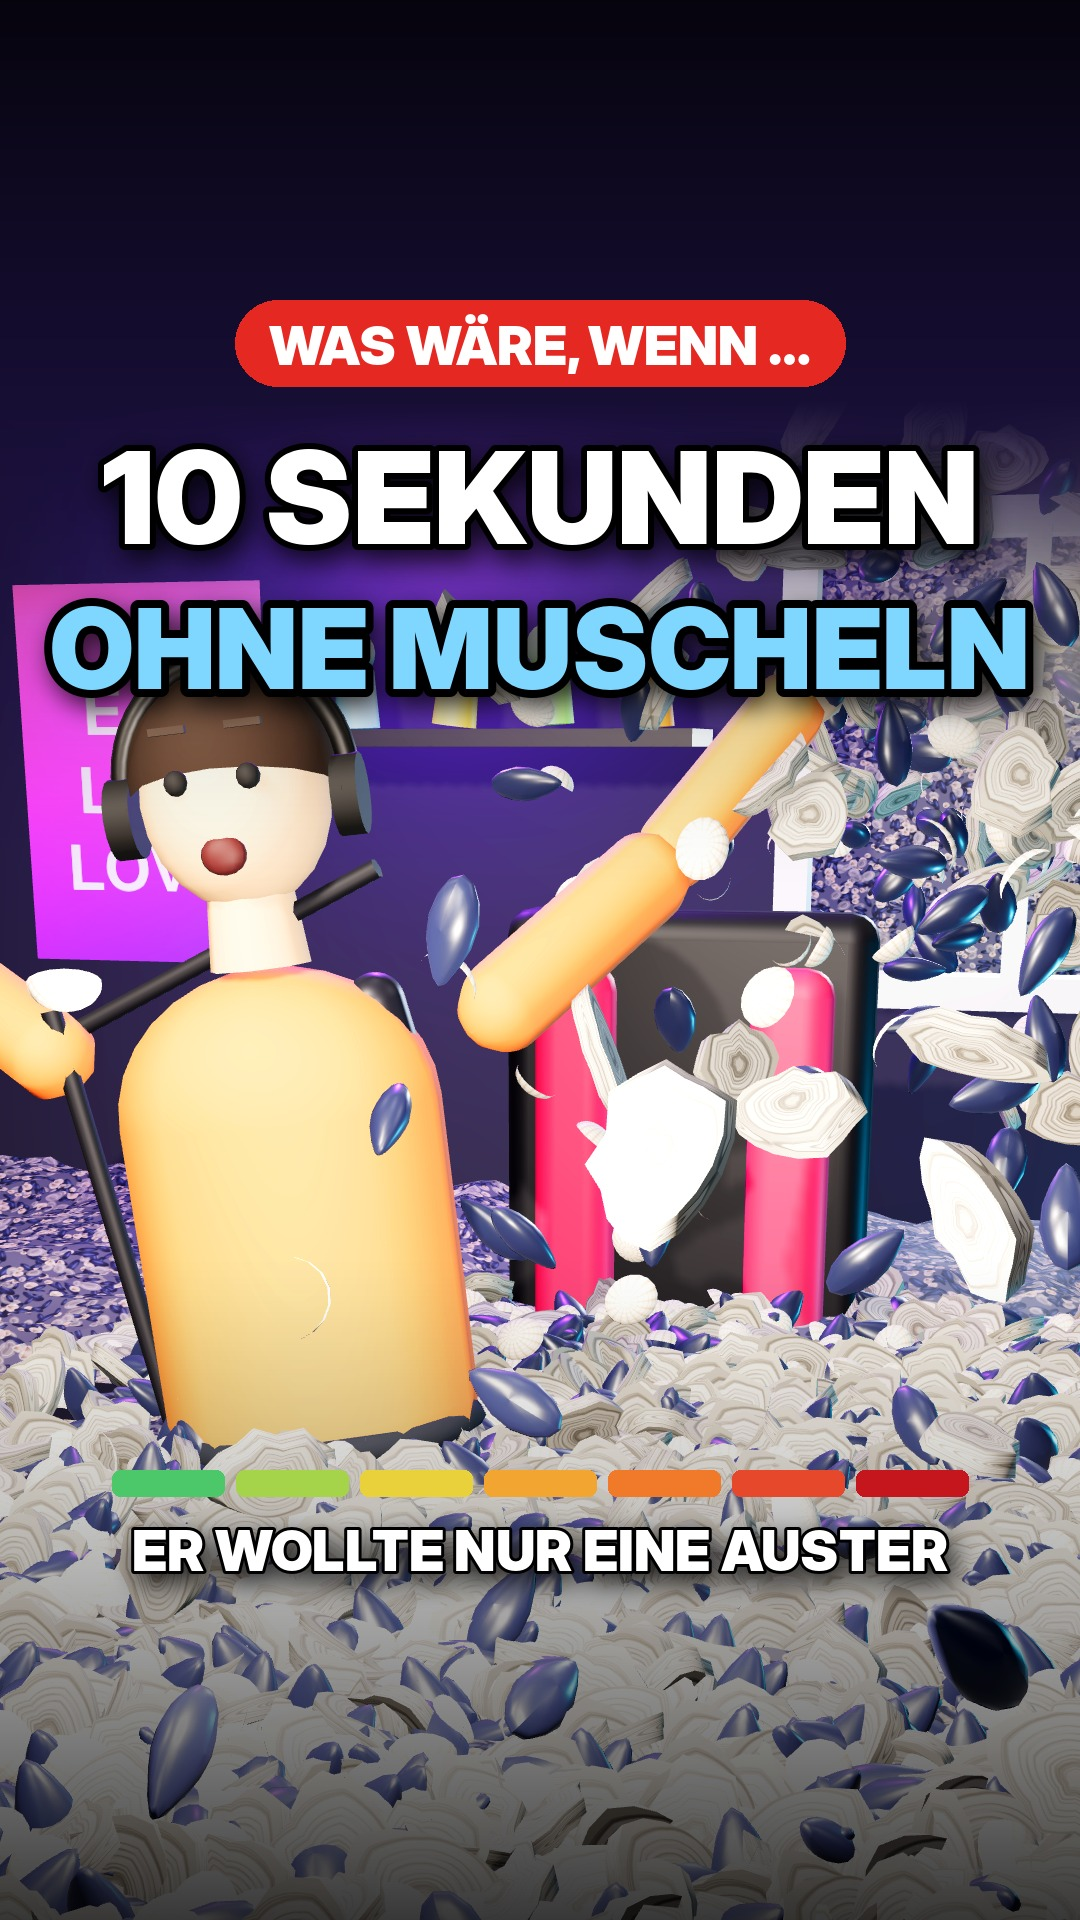
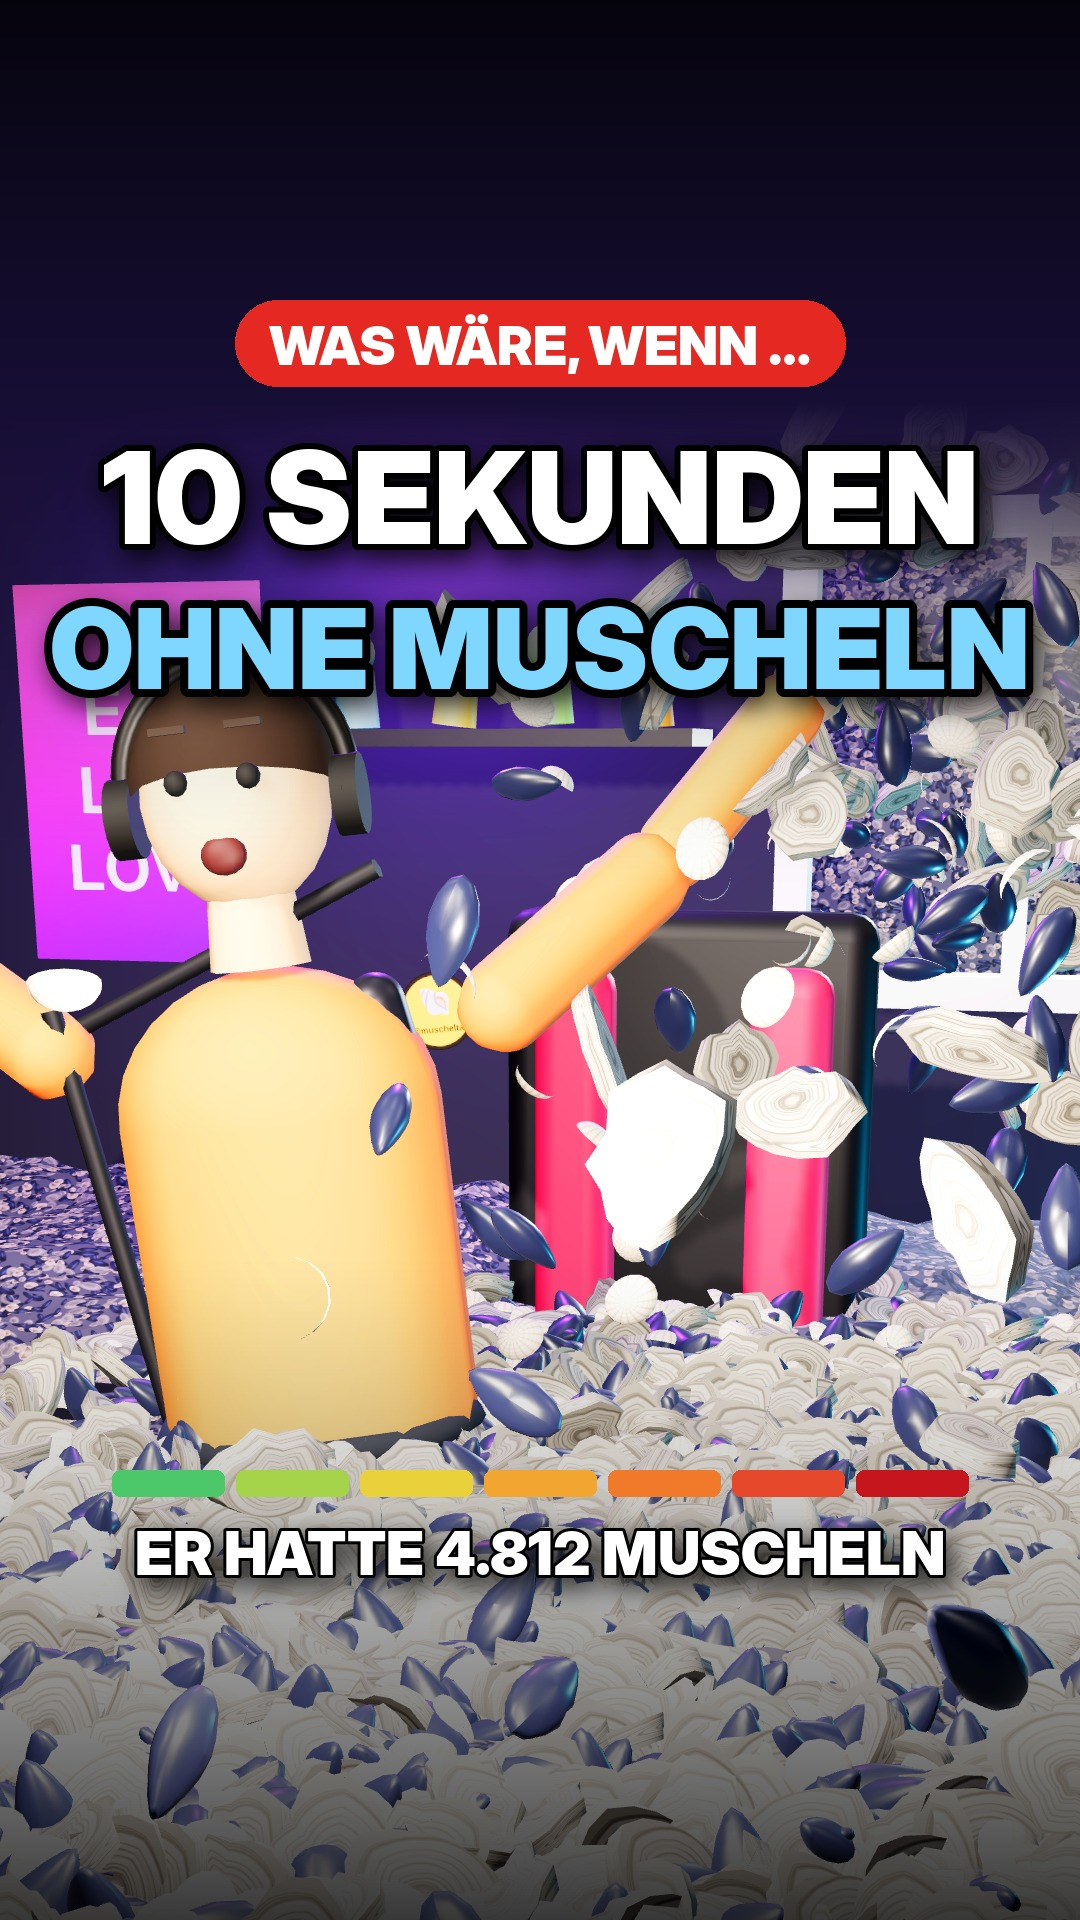
Folge 11 Muscheln: neue Stufe 1 (Mathearbeit), neues Finale, Ton, Beschreibung, Thumbnail
Claude-Session: https://claude.ai/code/session_01McNdgaYUbBinJQiiyVyJrz

Changed region(s): [[0.1222, 0.7812, 0.8861, 0.8438], [0.3667, 0.5, 0.4278, 0.5625]]

diff --git a/dieweltohne/folge11_muscheln/src/town.js b/dieweltohne/folge11_muscheln/src/town.js
@@ -141,7 +141,7 @@ export async function build(renderer) {
     const k = smooth(85.9, 87.8, st.T), n = Math.floor(Math.pow(k, 3) * 999999999999);
     g.textAlign = 'center'; g.textBaseline = 'middle'; g.font = '260px sans-serif'; g.fillText('🐚', SW / 2, 470);
     g.fillStyle = '#2a1b12'; g.beginPath(); g.roundRect(34, 716, SW - 60, 190, 60); g.fill(); g.fillStyle = '#fff8e7'; g.beginPath(); g.roundRect(30, 706, SW - 60, 190, 60); g.fill(); g.strokeStyle = '#2a1b12'; g.lineWidth = 8; g.stroke();
-    g.fillStyle = '#e8467c'; g.font = '900 ' + (n > 1e8 ? 62 : 90) + 'px sans-serif'; g.fillText(n.toLocaleString('de-DE'), SW / 2, 803); };
+    const txt = n >= 1e9 ? Math.floor(n / 1e9) + ' Mrd.' : n >= 1e6 ? Math.floor(n / 1e6) + ' Mio.' : n.toLocaleString('de-DE'); g.fillStyle = '#e8467c'; g.font = '900 120px sans-serif'; g.fillText(txt, SW / 2, 806); };
 
   const camera = new THREE.PerspectiveCamera(50, 1080 / 1920, 0.05, 3000); scene.add(camera);
   const o3 = new THREE.Object3D();
@@ -190,14 +190,15 @@ export async function build(renderer) {
       guy.position.set(top.x, top.y - 1.78 + 0.1 * hand + 0.4 * head, top.z + 0.3); guy.rotation.set(0, 0.25, 0); posePerson(guy, {}); brows(guy, 1, 0);
       u.armR.rotation.x = -2.9; u.armR.rotation.z = 0.15 * Math.sin(T * 9) * (1 - head); u.armR.userData.fore.rotation.x = -0.1; u.armL.rotation.x = -0.2; mouthOpen(guy, 0.2);
       // Er hält das Handy in die Kamera (der Kontostand explodiert) und jubelt
-      const look = smooth(86.4, 87.0, T), cheer = smooth(GULP - 0.2, GULP + 0.3, T);
-      u.armR.rotation.x = lerp(-2.9, -1.6, look) - 1.2 * cheer; u.armR.userData.fore.rotation.x = lerp(-0.1, -1.1, look) + 0.9 * cheer; u.armR.rotation.z = 0.15 * Math.sin(T * 9) * (1 - head) + 0.8 * cheer;
-      u.head.rotation.x = 0.2 * look * (1 - cheer) - 0.25 * cheer; mouthOpen(guy, T > 87.2 ? 0.55 + 0.4 * cheer + 0.1 * Math.sin(T * 20) * cheer : 0.25); brows(guy, 1, 0);
-      if (cheer > 0) { u.armL.rotation.x = -0.4; u.armL.rotation.z = -2.3 * cheer; u.armL.userData.fore.rotation.x = -0.4; }
-      guy.position.y += 0.06 * cheer * Math.abs(Math.sin(T * 9));
-      guy.updateMatrixWorld(true); const hr = u.armR.userData.fore.localToWorld(V3(0, -0.33, 0.03));
-      ph.position.copy(hr); ph.scale.setScalar(1.6); ph.rotation.set(0.1, 0.35 - 0.1 * look, 0);
-      if (cheer > 0) ph.rotation.set(0, 0.25, 0.3 * Math.sin(T * 9));
+      const look = smooth(86.2, 86.9, T), cheer = smooth(GULP - 0.2, GULP + 0.3, T);
+      u.armR.rotation.x = lerp(-2.9, -1.45, look); u.armR.userData.fore.rotation.x = lerp(-0.1, -0.9, look); u.armR.rotation.z = 0.15 * Math.sin(T * 9) * (1 - head) + 0.35 * look;
+      u.head.rotation.x = -0.15 * cheer; mouthOpen(guy, T > 86.9 ? 0.55 + 0.4 * cheer + 0.1 * Math.sin(T * 20) * cheer : 0.25); brows(guy, 1, 0);
+      if (cheer > 0) { u.armL.rotation.x = -0.4; u.armL.rotation.z = -2.4 * cheer + 0.2 * Math.sin(T * 12) * cheer; u.armL.userData.fore.rotation.x = -0.4; }
+      guy.position.y += 0.05 * cheer * Math.abs(Math.sin(T * 9));
+      guy.updateMatrixWorld(true); const hr = u.armR.userData.fore.localToWorld(V3(0, -0.33, 0.03)); const hd = u.head.localToWorld(V3(0.0, -0.05, 0.0));
+      // zum Zeigen hält er das Handy vor sich in die Kamera
+      const show = V3(hd.x + 0.22, hd.y - 0.05, hd.z + 0.42);
+      ph.scale.setScalar(lerp(1.6, 2.2, look)); ph.position.copy(hr).add(V3(0, 0.1 + 0.07 * look, 0.06)); ph.rotation.set(0.05, 0.3, 0.06 * Math.sin(T * 9) * cheer);
       updateScreen(ph, [], {t: T, T, custom: rich, noDrops: true});
     }
     // ---- Kamera ----

diff --git a/dieweltohne/folge11_muscheln/mix.py b/dieweltohne/folge11_muscheln/mix.py
@@ -82,7 +82,7 @@ def add(name, at, dur=None, db=0.0, off=0.0, fin=0.02, fout=0.05, speed=1.0, pan
 # ---------------- Zeitleiste (identisch zu src/timeline.js) ----------------
 VANISH, RETURN = 10.0, 48.0
 WK = [[10, 10], [17, 9.0], [24, 7.8], [31, 6.4], [39, 4.6], [48, 0]]
-LEMON, POP, FLASH, TRAY, SINK, HOLES, TILT, TOWER_HIT, WINDOW, BURIED, HAND_UP, HEAD_UP, GULP = 12.4, 17.5, 19.8, 24.9, 32.0, 40.0, 43.4, 45.2, 62.6, 75.6, 84.7, 85.7, 88.0
+SCREAM, TURN, TAKE, POP, FLASH, TRAY, SINK, HOLES, TILT, TOWER_HIT, WINDOW, BURIED, HAND_UP, HEAD_UP, GULP = 11.05, 12.3, 15.7, 17.5, 19.8, 24.9, 32.0, 40.0, 43.4, 45.2, 62.6, 75.6, 84.7, 85.7, 88.0
 POT_HITS = [25.75, 26.0, 26.25, 26.55, 26.8, 27.35]
 
 
@@ -119,17 +119,17 @@ while T_ < RETURN:
     T_ += 0.01
 for tt in ticks: tick(tt, -8 if tt < 7 or (VANISH < tt < 46) else -2)
 
-# ---------------- Livestream: Austern ----------------
-amb('fsd_party_music', 0, 10.0, -31)                                                       # leise Stream-Musik
-for tt in [1.0, 4.6, 8.2]: add('fsd_notify', tt, 0.45, db=-26, fout=0.15, pan=0.4)          # Chat-Ping
-add('fsd_slurp', 9.75, 1.5, db=-3, peak_win=0.4, fout=0.3)                                # er schlürft – Luft
+# ---------------- Stufe 1: Mathearbeit (Totenstille – nur Uhr und leise Spieltöne) ----------------
+for tt in [4.6, 5.9, 7.1, 8.2, 9.2]: add('fsd_coins', tt, 0.35, db=-27, fout=0.15, pan=0.2)      # +1 Muschel (leise, er will ja nicht auffallen)
 add('fsd_chime', VANISH - 0.05, 1.3, db=-15, fout=0.6)                                     # Verschwinden
-add('fsd_scratch', VANISH, 1.0, db=-5, fout=0.3)                                           # Plattenkratzer: Musik bricht ab
-add('fsd_laugh', 11.2, 2.0, db=-15, fin=0.1, fout=0.6)                                     # Lacher
-add('fsd_squeak', LEMON - 0.02, 0.5, db=-9, fout=0.1)                                       # Zitrone quietscht
-add('fsd_scream_girl', LEMON + 0.15, 1.4, db=-11, speed=0.72, fout=0.4)                    # Aua, das Auge
-add('fsd_laugh', 13.6, 3.2, db=-12, off=1.5, fin=0.2, fout=1.0)
-for tt in [14.4, 15.4, 16.2]: add('fsd_notify', tt, 0.4, db=-28, fout=0.1, pan=0.4)
+add('fsd_notify', VANISH + 0.35, 0.9, db=-14, speed=0.55, fout=0.3)                        # Konto auf 0 (tiefer, trauriger Ton)
+add('fsd_chair_scrape', SCREAM - 0.05, 0.7, db=-10, peak_win=0.4, fout=0.25)               # Stuhl kratzt beim Aufspringen
+add('fsd_scream_man', SCREAM, 1.3, db=-2, peak_win=1.0, fin=0.02, fout=0.35)               # „NEEEEIN!“
+add('fsd_crowd_gasp', TURN + 0.05, 1.8, db=-11, fout=0.6)                                  # alle drehen sich um
+add('fsd_giggle', TURN + 0.6, 1.4, db=-19, fout=0.5, pan=-0.3)
+add('fsd_steps_slow', 13.2, 1.7, db=-11, fin=0.05, fout=0.3)                              # Lehrerin kommt
+add('fsd_teens_laugh', TAKE + 0.2, 1.9, db=-13, fin=0.1, fout=0.6)                         # Klasse lacht
+add('fsd_sigh', TAKE + 0.4, 1.3, db=-9, fout=0.4)
 add('fsd_whoosh_fast', 16.75, 0.6, db=-12, fout=0.2)
 
 # ---------------- Stufe 2: Abiball-Foto ----------------
@@ -201,7 +201,7 @@ add('fsd_crowd_gasp', 52.2, 2.0, db=-14, fout=0.6)
 add('fsd_stone_clatter', 54.0, 3.6, db=-15, off=4.0, fin=0.3, fout=0.8)
 add('fsd_whoosh_fast', 57.7, 0.5, db=-14, fout=0.2)
 
-# ---------------- Stufe 7: Zurück im Stream ----------------
+# ---------------- Stufe 7: Abends im Stream ----------------
 add('fsd_sigh', 58.6, 2.0, db=-7, fout=0.6)
 for tt in [58.6, 59.6, 60.6, 61.4, 62.0]: add('fsd_notify', tt, 0.4, db=-27, fout=0.1, pan=0.4)
 add('fsd_sub_rumble', 60.2, 2.6, db=-9, off=1.0, fin=2.0, fout=0.1)
@@ -228,12 +228,13 @@ add('fsd_sub_rumble', 78.0, 6.0, db=-15, off=1.0, fin=0.4, fout=1.0)
 add('fsd_helicopter', 78.5, 5.5, db=-22, fin=1.0, fout=1.0, pan=-0.4)
 add('fsd_seagulls', 80.0, 3.0, db=-21, fout=0.8, pan=0.4)
 
-# ---------------- Finale: Auster ----------------
+# ---------------- Finale: Handy hoch, Kontostand explodiert ----------------
 amb('fsd_wind', 84.0, 90.0, -17)
 add('fsd_plastic_clatter', HAND_UP - 0.05, 0.9, db=-11, fout=0.4)                          # Hand bricht durch
 add('fsd_plastic_clatter', HEAD_UP - 0.05, 1.0, db=-9, off=1.5, fout=0.4)                 # Kopf taucht auf
 add('fsd_gasp', HEAD_UP + 0.25, 1.4, db=-7, fout=0.4)                                      # tief Luft holen
-add('fsd_slurp', 87.65, 1.4, db=-1, peak_win=0.4, fout=0.4)                                # endlich: Auster
+for k, tt in enumerate([86.3, 86.6, 86.9, 87.2, 87.5]): add('fsd_coins', tt, 0.5, db=-14 + k, fout=0.2, pan=0.3)   # Kontostand rattert hoch
+add('fsd_cheer_big', GULP - 0.15, 1.8, db=-7, fin=0.05, fout=0.7)                          # er jubelt
 add('fsd_applause', 88.35, 1.55, db=-14, fin=0.2, fout=0.8)
 # ---------------- Ausgabe ----------------
 peak = np.abs(mix).max()

diff --git a/dieweltohne/folge11_muscheln/thumbnail.py b/dieweltohne/folge11_muscheln/thumbnail.py
@@ -49,6 +49,6 @@ bw, gap, y0 = 112, 12, 1470
 x0 = (W - (7 * bw + 6 * gap)) / 2
 for i, c in enumerate(cols):
     draw.rounded_rectangle([x0 + i * (bw + gap), y0, x0 + i * (bw + gap) + bw, y0 + 26], 8, fill=c)
-text(W / 2, 1516, 'ER WOLLTE NUR EINE AUSTER', fit('ER WOLLTE NUR EINE AUSTER', F + 'InterDisplay-Black.otf', 860, 64), 'white', 3)
+text(W / 2, 1516, 'ER HATTE 4.812 MUSCHELN', fit('ER HATTE 4.812 MUSCHELN', F + 'InterDisplay-Black.otf', 860, 64), 'white', 3)
 img.save('thumbnail.jpg', quality=92)
 img.crop((0, 240, W, 1680)).resize((540, 720)).save(sys.argv[2] if len(sys.argv) > 2 else '/dev/null', 'JPEG') if len(sys.argv) > 2 else None

diff --git a/dieweltohne/folge11_muscheln/beschreibung.md b/dieweltohne/folge11_muscheln/beschreibung.md
@@ -2,29 +2,36 @@
 
 ## Beschreibung (zum Kopieren)
 
-Was wäre, wenn Muscheln 10 Sekunden verschwinden? 😳 Erst schlürft er im Livestream nur Luft 😂 Dann springen beim Abiball alle Hemden auf. Dann landen Muscheltöpfe auf Köpfen … und Stufe 7 hat keiner kommen sehen 🦪 Ab welcher Stufe hättest du nicht mehr gelacht – 1 bis 7? 👇
+Was wäre, wenn Muscheln 10 Sekunden verschwinden? 😳 Auch die im Handyspiel. Mitten in der Mathearbeit 💀 Dann springen beim Abiball alle Hemden auf, Muscheltöpfe landen auf Köpfen … und Stufe 7 hat keiner kommen sehen 🐚 Ab welcher Stufe hättest du nicht mehr gelacht – 1 bis 7? 👇
 
-#waswärewenn #dieweltohne #muscheln #lustig #fyp
+#waswärewenn #dieweltohne #muscheln #schule #lustig #fyp
 
 ## Erster Kommentar (selbst posten und anpinnen)
 
-Fun Fact: In Florida steht eine Festung, die aus Muschelgestein gebaut ist – das Castillo de San Marcos. Als dort 1740 wochenlang Kanonenkugeln einschlugen, zersprangen die Mauern nicht: Die Kugeln blieben im weichen Muschelstein einfach stecken 🦪 Was soll als Nächstes für 10 Sekunden verschwinden?
+Fun Fact: In Florida steht eine Festung, die aus Muschelgestein gebaut ist – das Castillo de San Marcos. Als dort 1740 wochenlang Kanonenkugeln einschlugen, zersprangen die Mauern nicht: Die Kugeln blieben im weichen Muschelstein einfach stecken 🐚 Und auf @muscheltal sind Muscheln übrigens Geld 👀 Was soll als Nächstes für 10 Sekunden verschwinden?
 
 ## Thumbnail
 
 - Datei: `thumbnail.jpg` (1080 × 1920). Beim Hochladen auf „Cover bearbeiten“ tippen, dann „Aus Galerie hinzufügen“.
-- Motiv: Der Streamer steckt bis zur Brust in Muscheln und schreit, durch das geborstene Fenster schießen immer mehr herein. Oben „10 SEKUNDEN OHNE MUSCHELN“, unten „ER WOLLTE NUR EINE AUSTER“.
+- Motiv: Er steckt bis zur Brust in Muscheln und schreit, durch das geborstene Fenster schießen immer mehr herein. Oben „10 SEKUNDEN OHNE MUSCHELN“, unten „ER HATTE 4.812 MUSCHELN“.
 - Neu erzeugen: `ONLY=studio node src/still.js <ordner> 2135`, danach `python3 thumbnail.py <ordner>/clean_2135.png`.
 
 ## Die 7 Stufen
 
-1. HARMLOS – Livestream: Er will vor 40.000 Zuschauern eine Auster schlürfen. Die Auster ist weg, er schlürft Luft, und die Zitrone spritzt ihm direkt ins Auge.
+1. HARMLOS – Mathearbeit, Totenstille. Er spielt heimlich unter dem Tisch ein Insel-Spiel, in dem Muscheln das Geld sind (4.812 Stück). Alle Muscheln der Welt verschwinden – auch die im Spiel. Konto: 0. Er springt auf und schreit „NEEEEIN!“, die ganze Klasse dreht sich um, die Lehrerin kassiert das Handy.
 2. PEINLICH – Abiball-Gruppenfoto: Die Hemdknöpfe sind aus Perlmutt. Sie verschwinden, alle Hemden springen auf (darunter bunte Unterhemden mit Enten und Dinos) – genau in dem Moment blitzt die Kamera.
 3. GEFÄHRLICH – Muschel-Restaurant: Der Kellner trägt sechs schwere Töpfe Muscheln. Plötzlich wiegt das Tablett fast nichts mehr, seine Arme schießen hoch – und die Töpfe landen kopfüber auf den Köpfen der Gäste.
 4. KRITISCH – Wattwanderung: Alle stehen auf einer Muschelbank, dem einzigen festen Boden. Sie verschwindet, alle versinken bis zum Bauch im Schlick, eine Möwe landet auf dem Kopf des Wattführers, die Flut kommt.
 5. KATASTROPHE – Ein Kirchturm aus Muschelkalk wird löchrig wie ein Käse und kippt auf den leeren Marktplatz.
 6. UNAUFHALTSAM – Die Muscheln sind zurück. Aber nicht da, wo sie waren: Es regnet Muscheln.
-7. WELTUNTERGANG – Alle Muscheln der Welt kommen an eine einzige Adresse: zum Streamer. Das Fenster birst, das Zimmer läuft voll, er versinkt. Die halbe Stadt liegt unter einem Muschelberg – und ganz oben taucht er auf und schlürft endlich seine Auster.
+7. WELTUNTERGANG – Abends streamt er mit 0 Muscheln auf dem Konto. Das Universum will es wiedergutmachen: Alle Muscheln der Welt kommen zu ihm. Das Fenster birst, das Zimmer läuft voll, er versinkt. Die halbe Stadt liegt unter einem Muschelberg – ganz oben taucht er auf, hält das Handy hoch (999 Mrd. Muscheln) und jubelt. Nachsitzen muss er trotzdem.
+
+## Muschel-Tal im Video (dezent)
+
+- Stufe 1: Auf seinem Handy läuft ein Insel-Spiel im Muschel-Tal-Look (türkises Meer, runde Insel mit Strohhütten, Muschel-Palast, kleines gelbes „MUSCHEL-TAL“-Logo, Muschelkonto oben rechts).
+- Stufe 7: Ein kleiner runder Sticker „@muscheltal“ an der Wand in seinem Zimmer.
+- Finale: Sein Handy zeigt den explodierten Muschel-Kontostand.
+- In der Beschreibung steht nichts dazu, nur im angepinnten Kommentar ein halber Satz.
 
 ## Posting-Tipps
 
@@ -38,10 +45,10 @@ Fun Fact: In Florida steht eine Festung, die aus Muschelgestein gebaut ist – d
 - Muschelkalk ist ein Kalkstein, der nach den vielen versteinerten Muschelschalen darin benannt ist. In Franken (z. B. die Pfarrkirchen von Röttingen und Aub, 12./13. Jahrhundert) und Baden-Württemberg wurden viele Bauwerke daraus errichtet (Bayerisches Landesamt für Umwelt, LGRB Baden-Württemberg).
 - Weltweit werden jedes Jahr rund 18 Millionen Tonnen Muscheln (Austern, Venus-, Mies- und Jakobsmuscheln) produziert, der Großteil aus Aquakultur (2023: rund 18,6 Millionen Tonnen laut Auswertung von FAO-Daten).
 - Fun Fact im Kommentar: Die Mauern des Castillo de San Marcos (St. Augustine, Florida) sind aus Coquina, einem Gestein aus Muschelschalen. Bei der Belagerung 1740 wurde die Festung 27 Tage beschossen; die Kugeln drangen in den weichen Stein ein, statt ihn zu zertrümmern (US-Nationalparkverwaltung NPS).
-- Gedankenexperiment: Dass ein Kirchturm aus Muschelkalk löchrig wird und einstürzt, ist zugespitzt (die Muscheln darin sind längst zu Kalkstein geworden). Der Muschelregen, die Muschelflut im Zimmer und der Muschelberg sind die erfundene, überdrehte Pointe. Die Muschelbank als „einziger fester Boden“ ist ebenfalls zugespitzt.
+- Gedankenexperiment: Dass mit allen Muscheln auch die Muscheln im Handyspiel verschwinden, ist der erfundene Witz von Stufe 1 (keine Faktenbehauptung). Dass ein Kirchturm aus Muschelkalk löchrig wird und einstürzt, ist zugespitzt (die Muscheln darin sind längst zu Kalkstein geworden). Der Muschelregen, die Muschelflut im Zimmer und der Muschelberg sind die erfundene, überdrehte Pointe. Die Muschelbank als „einziger fester Boden“ ist ebenfalls zugespitzt.
 
 ## Hinweise
 
 - Das Video ist eine realistisch wirkende 3D-Animation. Setze zur Sicherheit das Label „KI-generiert“.
-- Alle Personen, Orte, das Restaurant und der Streamer sind erfunden. Der Chat im Video ist erfunden.
+- Alle Personen, Orte, die Schule, das Restaurant und der Schüler sind erfunden. Der Chat im Video ist erfunden.
 - Alle Geräusche sind echte Aufnahmen unter CC0 (frei nutzbar, keine Namensnennung nötig). Die Liste steht in `quellen_geraeusche.md`.

diff --git a/dieweltohne/folge11_muscheln/quellen_geraeusche.md b/dieweltohne/folge11_muscheln/quellen_geraeusche.md
@@ -7,6 +7,8 @@ Alle Geräusche sind echte Aufnahmen unter CC0 (frei nutzbar, keine Namensnennun
 - FSD50K 105304 (freesound.org/s/105304) – CC0 (Freesound, über den Datensatz FSD50K)
 - FSD50K 119903 (freesound.org/s/119903) – CC0 (Freesound, über den Datensatz FSD50K)
 - FSD50K 125520 (freesound.org/s/125520) – CC0 (Freesound, über den Datensatz FSD50K)
+- FSD50K 413284 (freesound.org/s/413284) – CC0 (Freesound, über den Datensatz FSD50K)
+- FSD50K 241742 (freesound.org/s/241742) – CC0 (Freesound, über den Datensatz FSD50K)
 - FSD50K 118978 (freesound.org/s/118978) – CC0 (Freesound, über den Datensatz FSD50K)
 - FSD50K 329324 (freesound.org/s/329324) – CC0 (Freesound, über den Datensatz FSD50K)
 - FSD50K 3183 (freesound.org/s/3183) – CC0 (Freesound, über den Datensatz FSD50K)
@@ -31,15 +33,15 @@ Alle Geräusche sind echte Aufnahmen unter CC0 (frei nutzbar, keine Namensnennun
 - FSD50K 396428 (freesound.org/s/396428) – CC0 (Freesound, über den Datensatz FSD50K)
 - FSD50K 429512 (freesound.org/s/429512) – CC0 (Freesound, über den Datensatz FSD50K)
 - FSD50K 147584 (freesound.org/s/147584) – CC0 (Freesound, über den Datensatz FSD50K)
-- FSD50K 238576 (freesound.org/s/238576) – CC0 (Freesound, über den Datensatz FSD50K)
 - FSD50K 219867 (freesound.org/s/219867) – CC0 (Freesound, über den Datensatz FSD50K)
+- FSD50K 166157 (freesound.org/s/166157) – CC0 (Freesound, über den Datensatz FSD50K)
 - FSD50K 25312 (freesound.org/s/25312) – CC0 (Freesound, über den Datensatz FSD50K)
 - FSD50K 331685 (freesound.org/s/331685) – CC0 (Freesound, über den Datensatz FSD50K)
 - FSD50K 252239 (freesound.org/s/252239) – CC0 (Freesound, über den Datensatz FSD50K)
-- FSD50K 215639 (freesound.org/s/215639) – CC0 (Freesound, über den Datensatz FSD50K)
 - FSD50K 10774 (freesound.org/s/10774) – CC0 (Freesound, über den Datensatz FSD50K)
 - FSD50K 417992 (freesound.org/s/417992) – CC0 (Freesound, über den Datensatz FSD50K)
 - FSD50K 109826 (freesound.org/s/109826) – CC0 (Freesound, über den Datensatz FSD50K)
+- FSD50K 406688 (freesound.org/s/406688) – CC0 (Freesound, über den Datensatz FSD50K)
 - FSD50K 386222 (freesound.org/s/386222) – CC0 (Freesound, über den Datensatz FSD50K)
 - FSD50K 434155 (freesound.org/s/434155) – CC0 (Freesound, über den Datensatz FSD50K)
 - FSD50K 333400 (freesound.org/s/333400) – CC0 (Freesound, über den Datensatz FSD50K)
